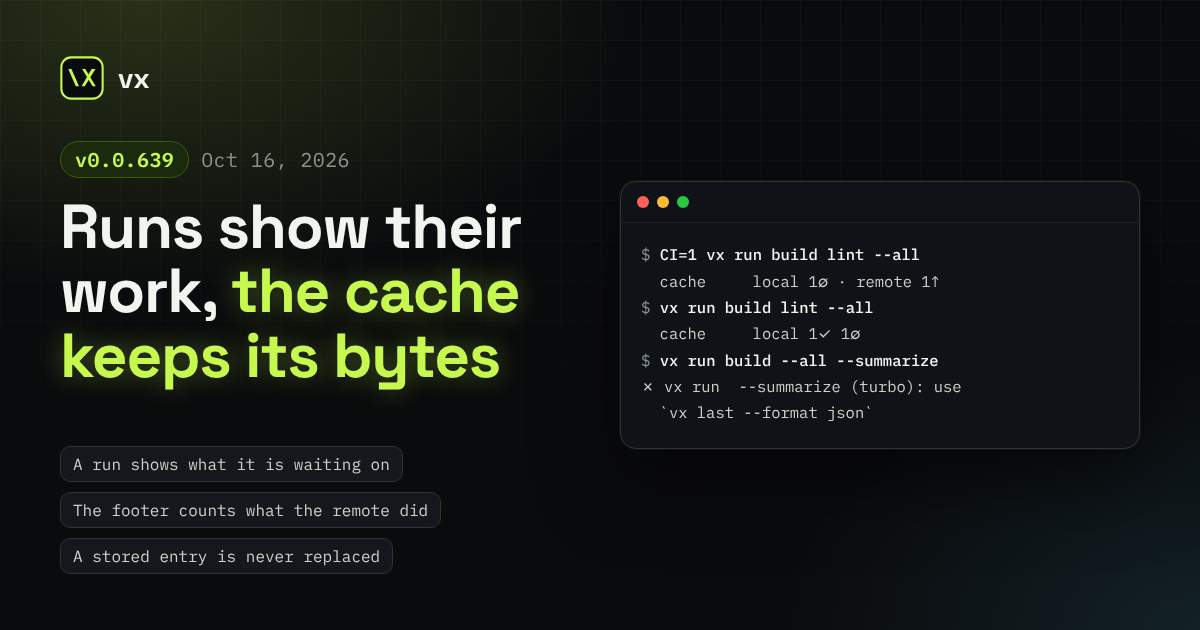
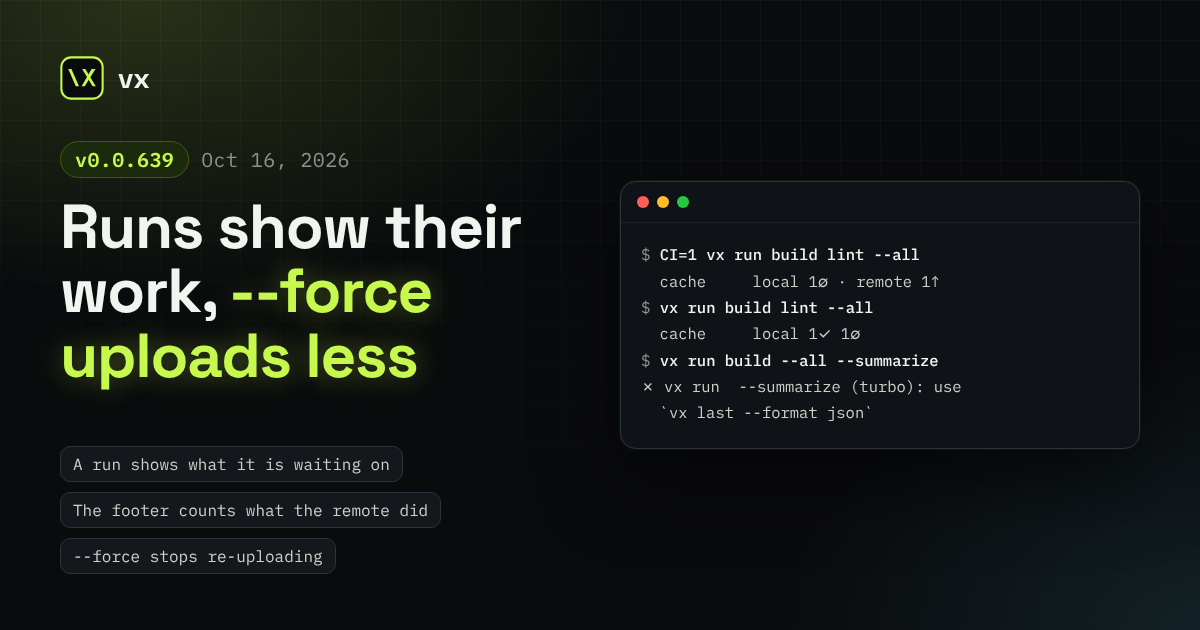
docs(vx-docs): scope the 0.0.639 cache claim to --force
Only a --force save keeps a stored local entry; a racing normal save
still replaces one.

Claude-Session: https://claude.ai/code/session_01VJXgsMkfMPFR7myuFKdVwZ

Changed region(s): [[0.0308, 0.4222, 0.4317, 0.6333], [0.0617, 0.8746, 0.3392, 0.9048]]

diff --git a/packages/vx-docs/src/content/docs/releases/vx-0-0-639.md b/packages/vx-docs/src/content/docs/releases/vx-0-0-639.md
@@ -1,5 +1,5 @@
 ---
-title: 'Runs show their work, the cache keeps its bytes'
+title: 'Runs show their work, --force uploads less'
 date: 2026-10-16T08:00:00Z
 authors:
   - vzn
@@ -7,13 +7,13 @@ tags:
   - release
 cover:
   image: ../../../assets/blog/vx-0-0-639.png
-  alt: 'vx 0.0.639: Runs show their work, the cache keeps its bytes'
-excerpt: 'A live run now shows what vx itself is doing and what each idle worker waits on, the footer counts remote failures and uploads in flight, a stored cache entry is never replaced, vx lock refuses fewer configs that were fine, and vx run sheds nine flags.'
+  alt: 'vx 0.0.639: Runs show their work, --force uploads less'
+excerpt: 'A live run now shows what vx itself is doing and what each idle worker waits on, the footer counts remote failures and uploads in flight, --force no longer re-uploads what the cache holds, vx lock refuses fewer configs that were fine, and vx run sheds nine flags.'
 ---
 
 A live run now shows what vx itself is doing and what each idle worker
 waits on. The footer counts remote failures and uploads still in flight,
-and a stored cache entry is never replaced. `vx lock` refuses fewer
+and `--force` no longer re-uploads what the cache holds. `vx lock` refuses fewer
 configs that were fine, and `vx run` sheds nine flags.
 
 Read the [breaking changes](#breaking-changes) before you update: most
@@ -25,7 +25,7 @@ Enjoy the release!
 
 - [A run shows what it is waiting on](#a-run-shows-what-it-is-waiting-on)
 - [The footer counts what the remote did](#the-footer-counts-what-the-remote-did)
-- [A stored entry is never replaced](#a-stored-entry-is-never-replaced)
+- [--force stops re-uploading](#--force-stops-re-uploading)
 - [vx lock refuses less](#vx-lock-refuses-less)
 - [Fewer flags on vx run](#fewer-flags-on-vx-run)
 - [Other noteworthy changes](#other-noteworthy-changes)
@@ -95,14 +95,14 @@ $ vx run build lint --all
 `remote ✗ download: connection refused; upload: 503`. `--dry` uses the
 same marks, so a plan and its run read alike.
 
-## A stored entry is never replaced
+## --force stops re-uploading
 
 `vx run --force` re-ran every task and then uploaded every result, even
 when the remote already held that key. On CI that was one upload per
 task for bytes the cache already had.
 
-A cache entry is immutable, so `--force` now re-runs every task and
-keeps whatever is stored under the same key, locally and remotely. Each
+Now `--force` re-runs every task and keeps what is stored under the same
+key, locally and remotely. Each
 remote is asked which keys it holds: once for the whole run when its
 plugin has `hasMany`, else `has` per key just before that upload. A held
 key is not sent again. No task waits for those answers, and a failed
